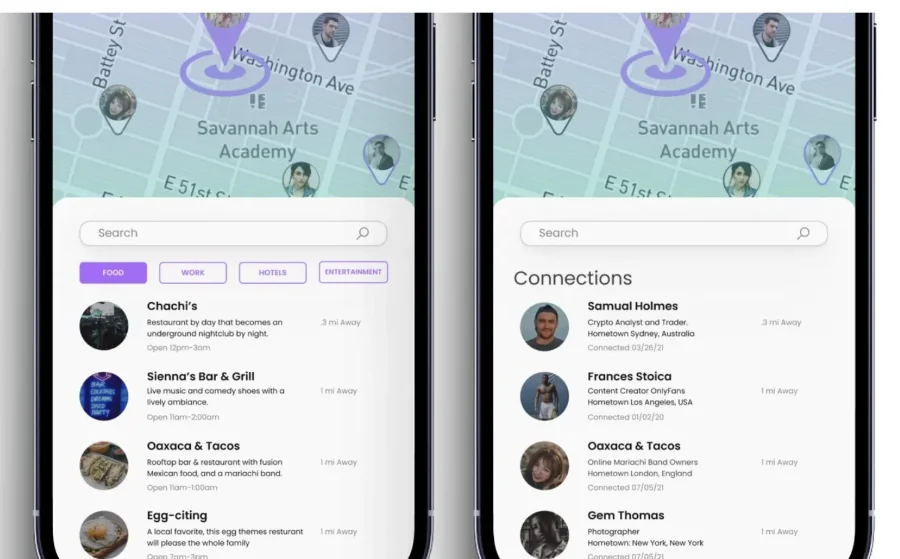
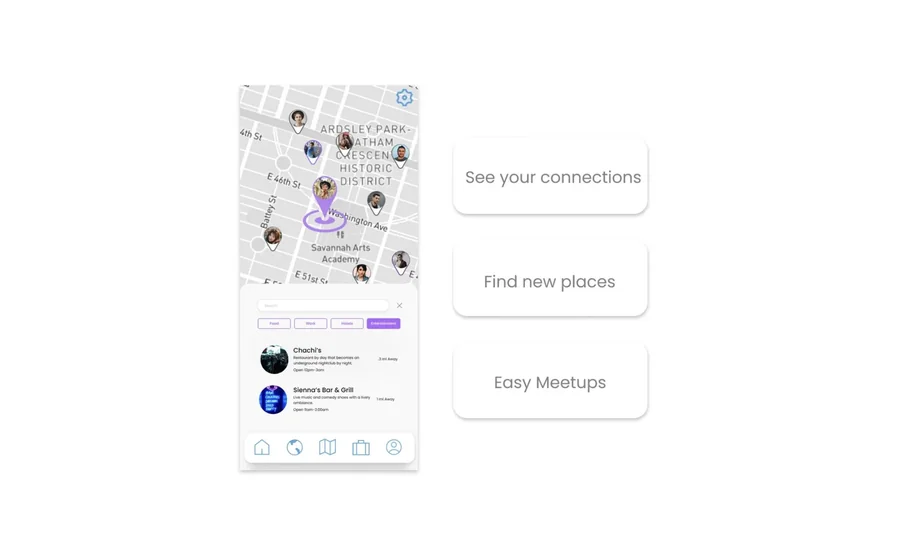
Item 7: Explorius homepage card shows a complete device
The previous card cropped both phone frames at top and bottom, and the
16 by 9 mobile aspect cut them further. No source slide with two intact
phones exists (the likely named archive files are text slides), so the
card is recomposed from the one complete map phone with the three promise
cards, sized so the device keeps breathing room even inside the mobile
cover crop. Baloo was already recomposed borderless in a prior commit.
Old crop kept in archive/.

diff --git a/index.html b/index.html
@@ -450,7 +450,7 @@
           </div>
           <div class="project-thumb thumb-explorius">
             <img src="/ExploriusUIbox.webp"
-                 alt="Explorius map screens showing nearby places to go and nearby nomads to connect with"
+                 alt="Explorius map screen with nearby nomads and close by places, beside three promises: see your connections, find new places, easy meetups"
                  loading="lazy" width="900" height="559">
           </div>
         </div>
